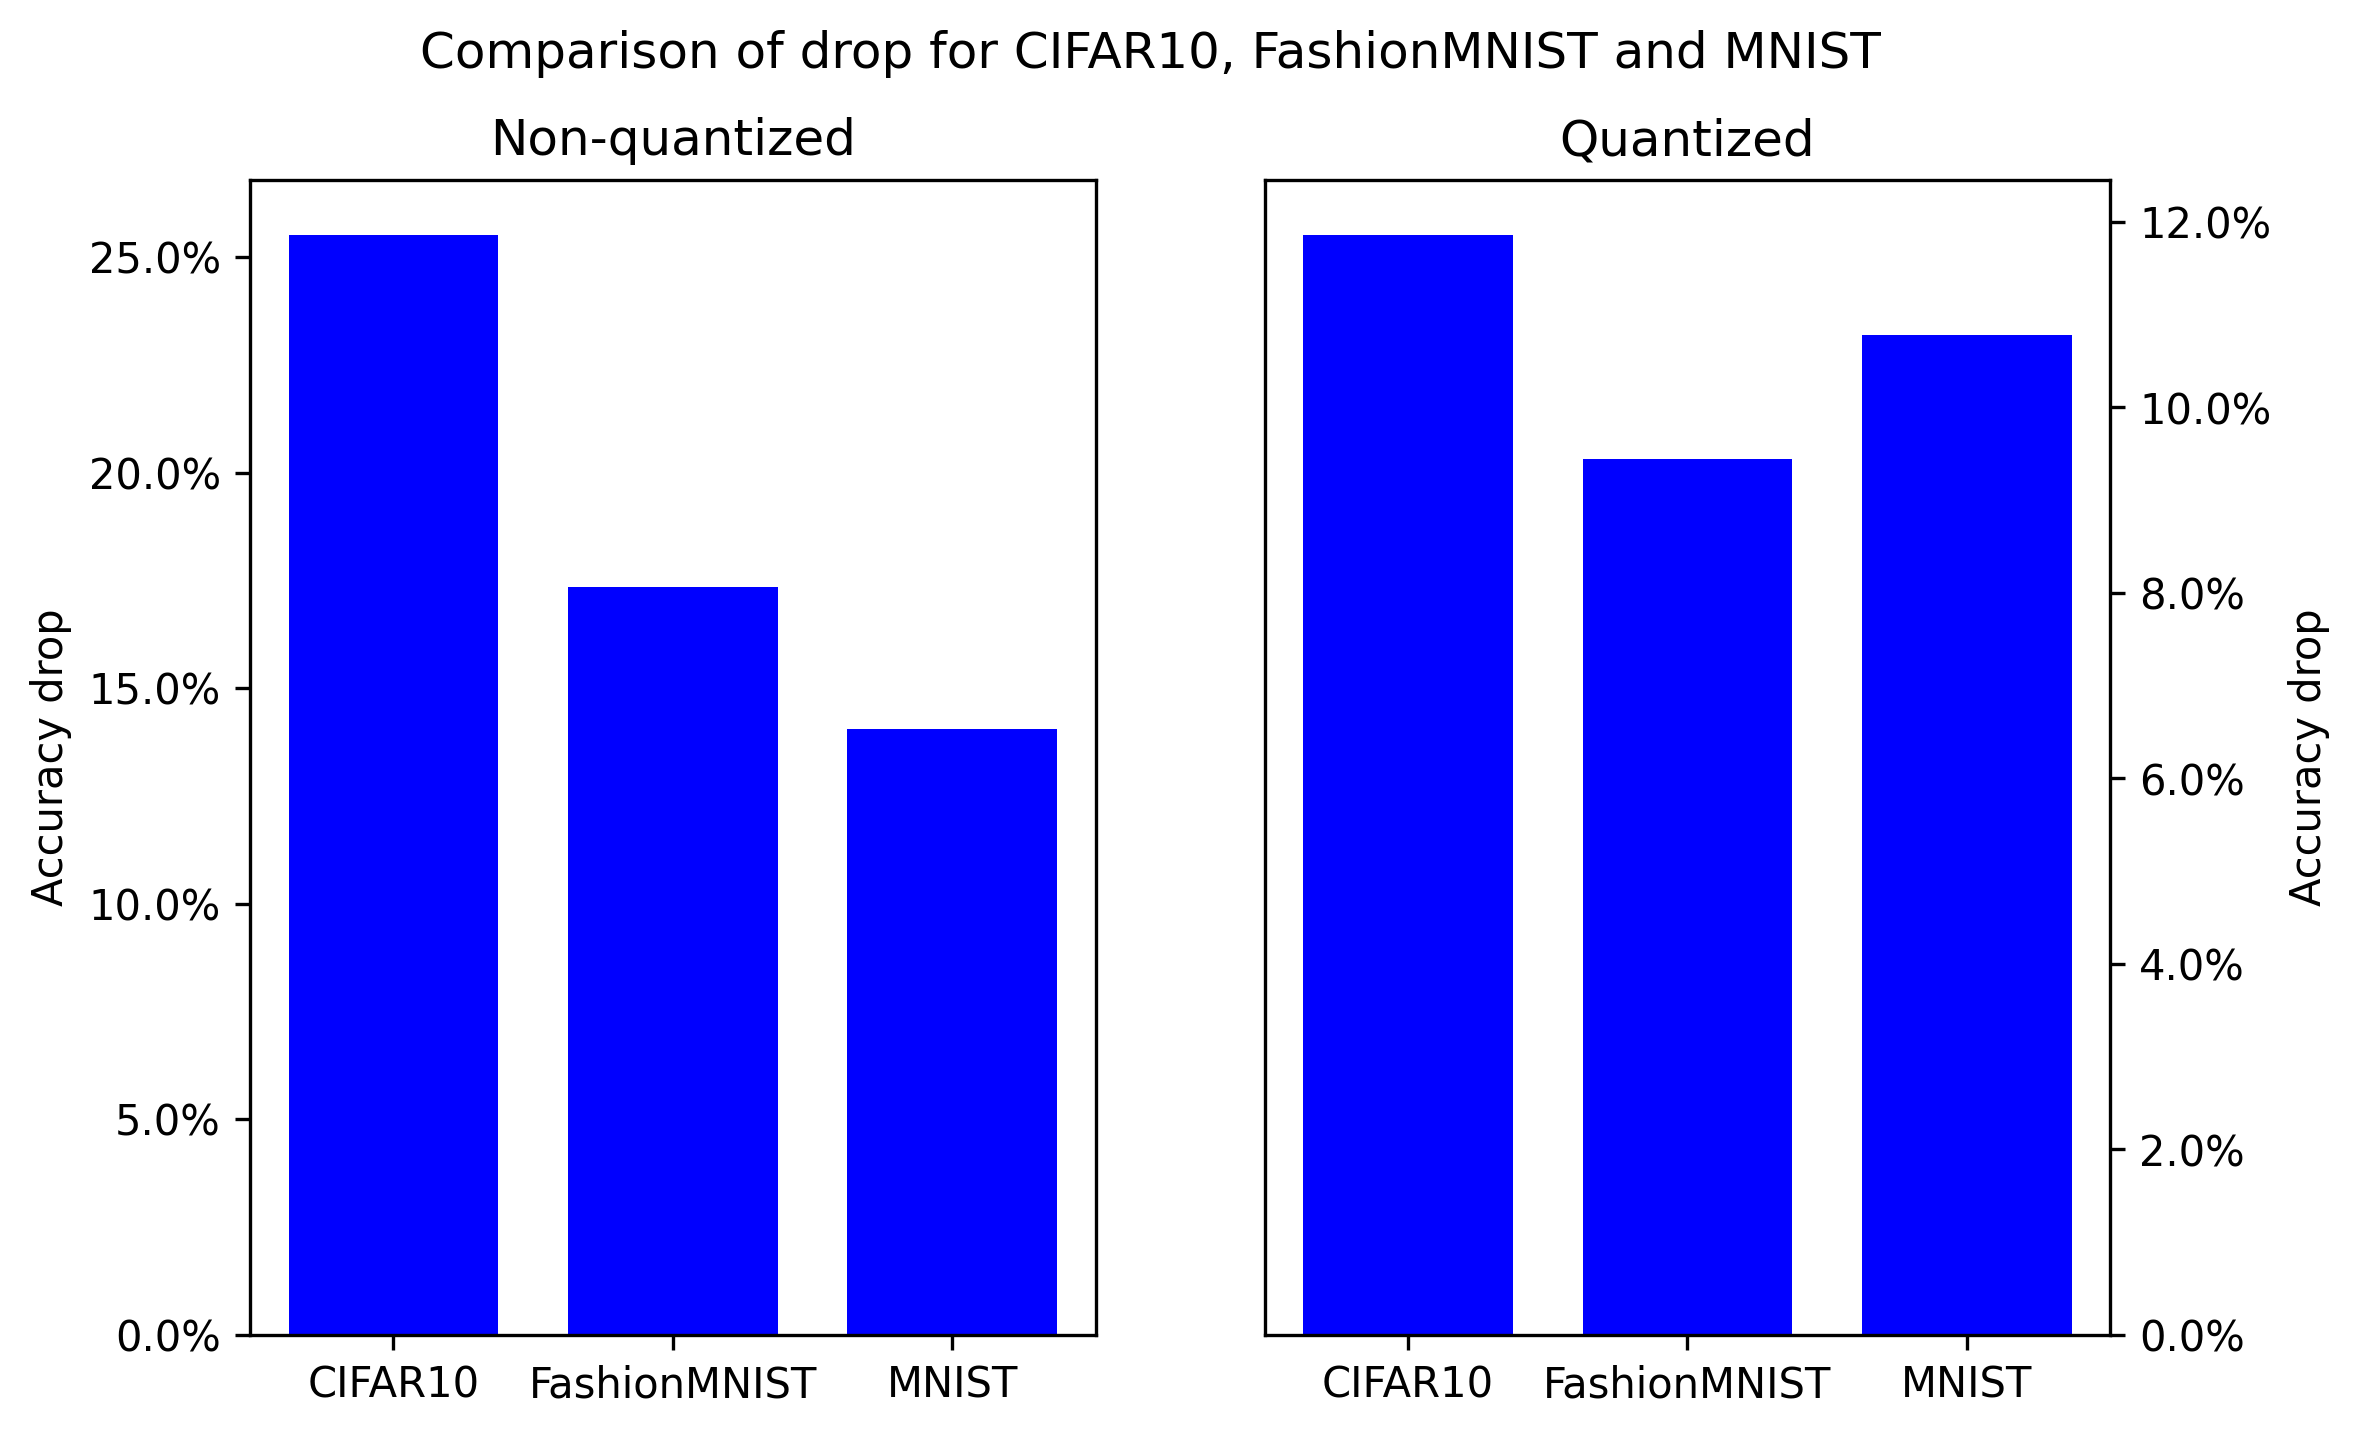
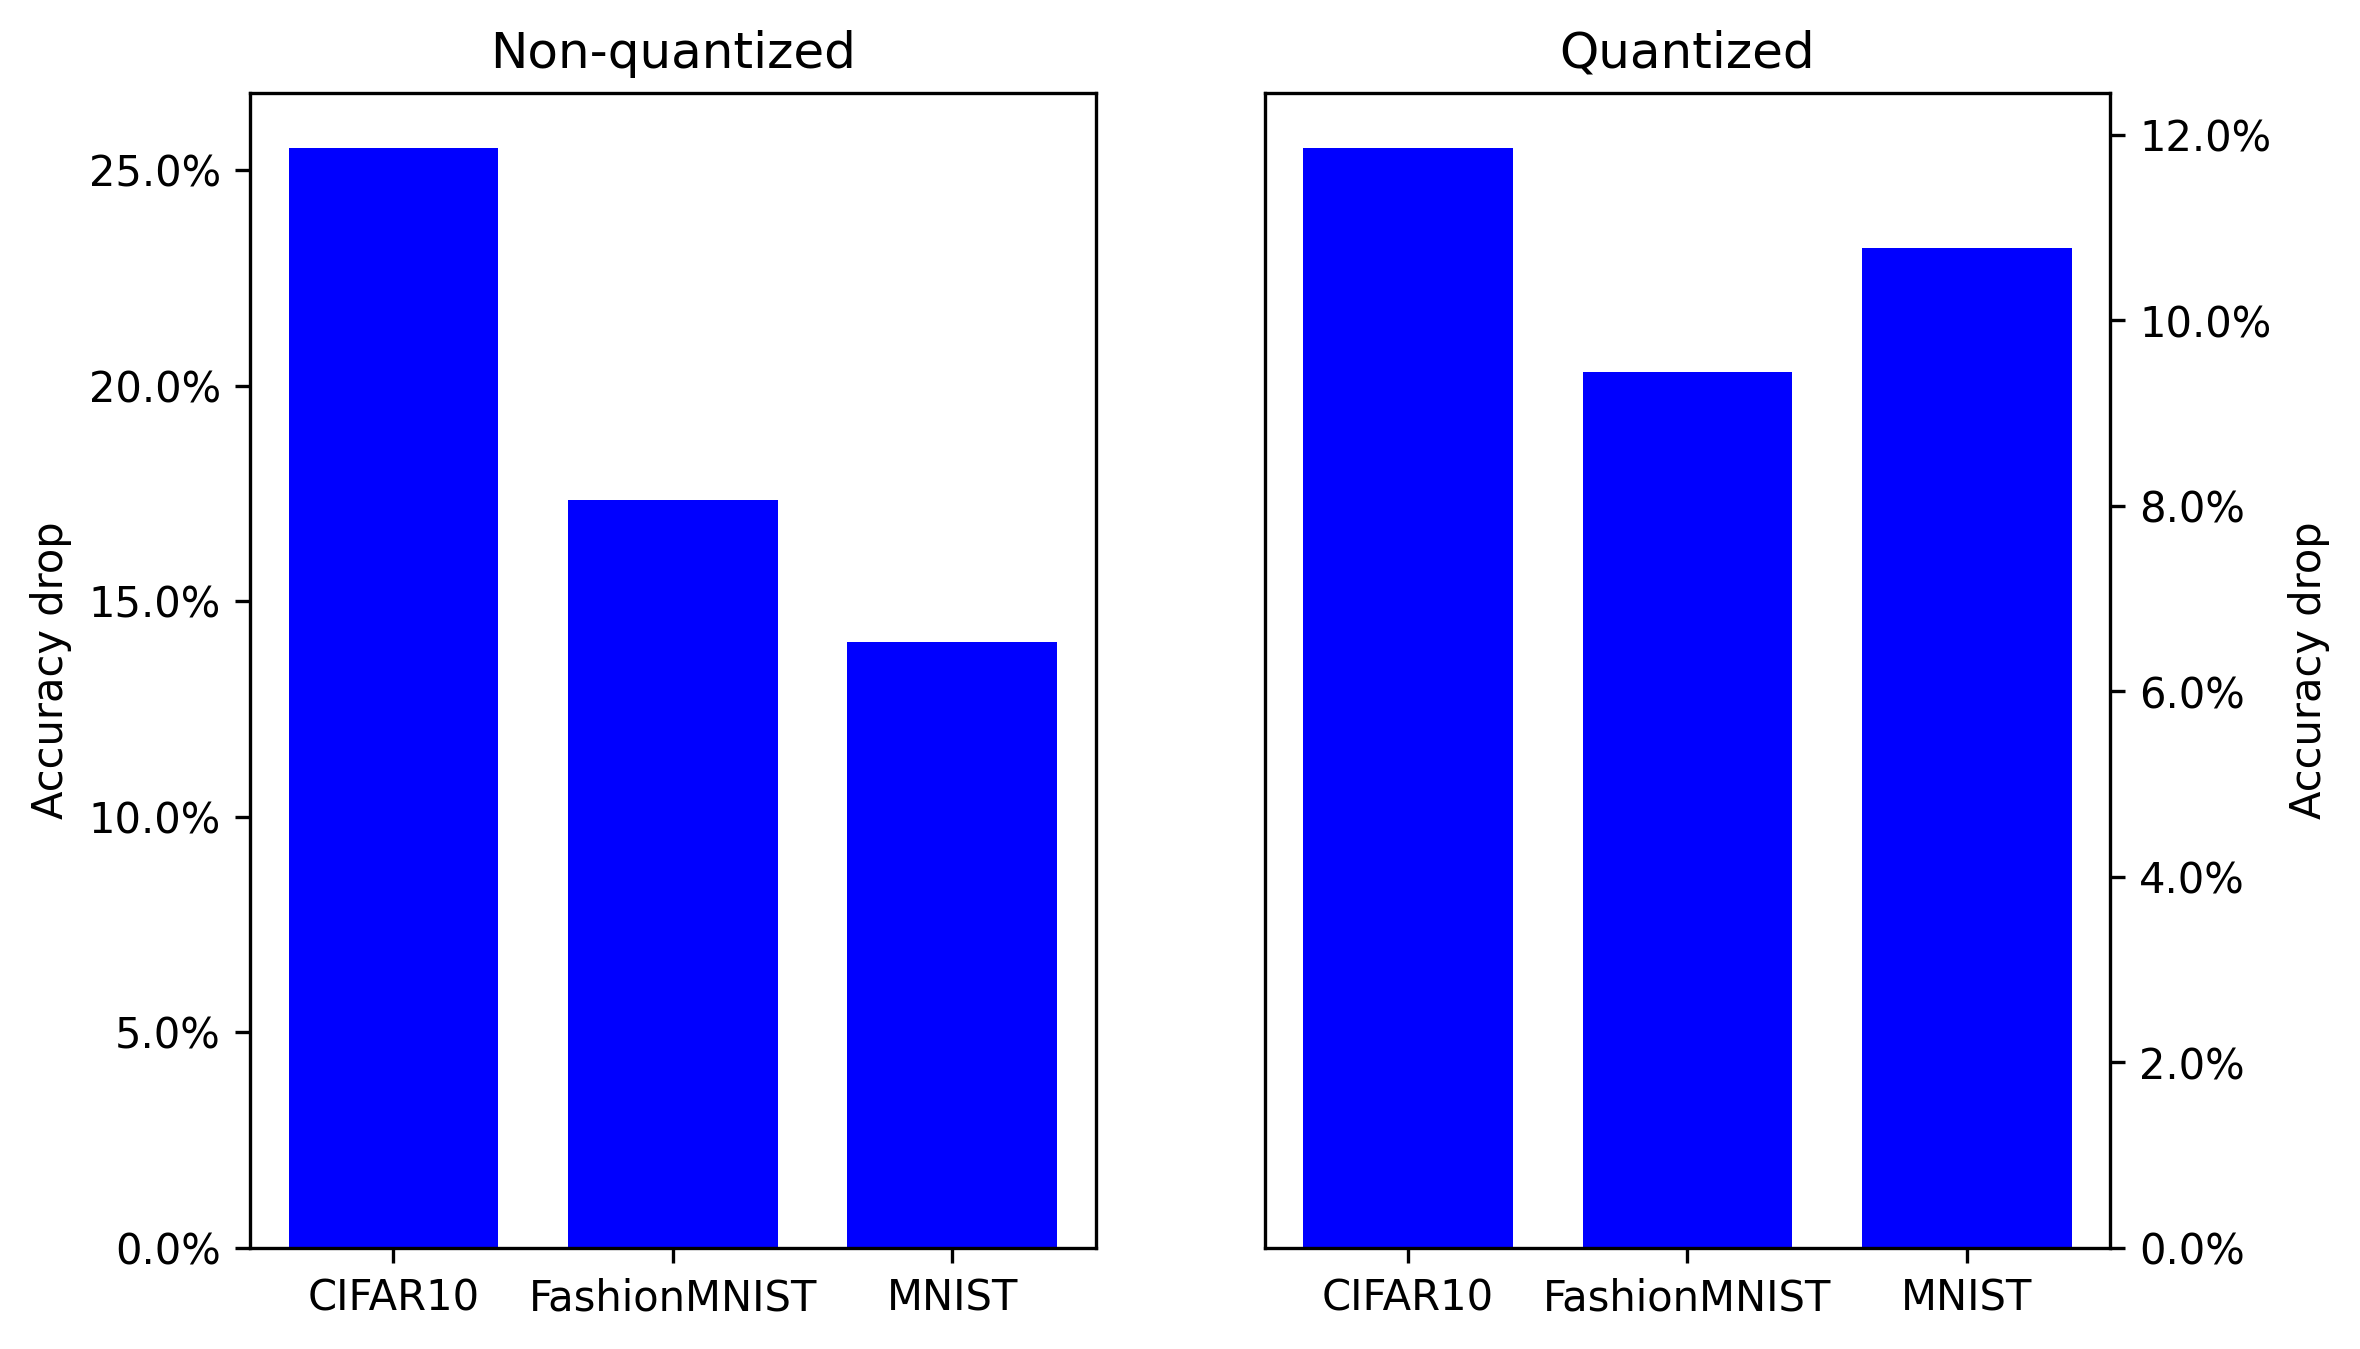
Graphs updated

diff --git a/generate_plots_hyperparameters.py b/generate_plots_hyperparameters.py
@@ -89,12 +89,13 @@ def generate_plot_patch(df, start_rows, cols, legends, x_label, x_ticks, plt_tit
     plt.xlabel(x_label, font=font)
     plt.xticks(x_ticks, font=font)
     plt.ylabel('Accuracy', font=font)
-    yticks = list(range(70, 101, 3))
+    plt.ylim((64, 101))
+    yticks = list(range(65, 101, 5))
     plt.yticks(yticks, labels=[str(num) + "%" for num in yticks], font=font)
     plt.grid(True, linewidth=0.5, color='gray', linestyle=':')
     plt.legend(fontsize=12)
 
-    plt.title(plt_title, font=font)
+    # plt.title(plt_title, font=font)
 
 
     # SAVE GRAPH IN PDF
@@ -120,12 +121,13 @@ def generate_plot_quant(df, start_rows, cols, legends, x_label, x_ticks, plt_tit
     tick_labels[-1] = 'inf'  # change the last tick label to 'inf'
     plt.xticks(x_ticks, tick_labels, font=font)
     plt.ylabel('Accuracy', font=font)
-    yticks = list(range(73, 101, 3))
+    plt.ylim((81, 101))
+    yticks = list(range(82, 101, 2))
     plt.yticks(yticks, labels=[str(num) + "%" for num in yticks], font=font)
     plt.grid(True, linewidth=0.5, color='gray', linestyle=':')
     plt.legend(fontsize=12, loc="lower right")
 
-    plt.title(plt_title, font=font)
+    # plt.title(plt_title, font=font)
 
     save_graph('quantization')
 
@@ -140,8 +142,9 @@ def generate_plot_size(df, start_rows, cols, legends, x_labels, x_ticks, plt_tit
     fig, ax0 = plt.subplots()
     ax0.set_xlabel(x_labels[0], font=font)
     ax0.set_xticks(x_ticks[0], font=font)
-    ax0.set_ylabel('Accuracy [%]', font=font)
-    yticks = list(range(60, 101, 4))
+    ax0.set_ylabel('Accuracy', font=font)
+    ax0.set_ylim((65, 101))
+    yticks = list(range(68, 101, 4))
     ax0.set_yticks(yticks, labels=[str(num) + "%" for num in yticks], font=font)
     ax0.grid(True, linewidth=0.5, color='gray', linestyle=':')
 
@@ -165,7 +168,7 @@ def generate_plot_size(df, start_rows, cols, legends, x_labels, x_ticks, plt_tit
     labs = [l.get_label() for l in lns]
     ax0.legend(lns, labs, loc="lower right")
 
-    plt.title(plt_title, font=font)
+    # plt.title(plt_title, font=font)
 
     save_graph('model_size')
 
@@ -179,14 +182,15 @@ def generate_plot_datasets(df, start_rows, legends, x_label, x_ticks, plt_title)
     for i, rows_bunch in enumerate(rows_bunches):
         plt.plot([0,1,2], rows_bunch['acc'], c=colors[i], label = legends[i], linewidth = 1, linestyle='-', marker='.')
 
-    plt.xlabel(x_label, font=font)
+    # plt.xlabel(x_label, font=font)
     tick_labels = ['MNIST', 'FashionMNIST', 'CIFAR10']
     plt.xticks(x_ticks, tick_labels, font=font)
     plt.ylabel('Accuracy', font=font)
-    yticks = list(range(35, 101, 5))
+    plt.ylim((28, 102))
+    yticks = list(range(30, 101, 10))
     plt.yticks(yticks, labels=[str(num) + "%" for num in yticks], font=font)
     plt.grid(True, linewidth=0.5, color='gray', linestyle=':')
-    plt.legend(fontsize=12)
+    plt.legend(fontsize=12, loc='lower left')
 
     plt.title(plt_title, font=font)
 
@@ -197,7 +201,7 @@ def generate_plot_datasets(df, start_rows, legends, x_label, x_ticks, plt_title)
 
 df = parse_csv()
 
-fig = plt.figure(figsize=(12, 10))
+# fig = plt.figure(figsize=(12, 10))
 
 plt = generate_plot_patch(df=df, 
                           start_rows=[7*1,7*2,7*3,7*4],
@@ -210,7 +214,7 @@ plt = generate_plot_patch(df=df,
 # plt.show()
 plt.clf()
 
-fig = plt.figure(figsize=(12, 10))
+# fig = plt.figure(figsize=(12, 10))
 
 plt = generate_plot_quant(df=df, 
                           start_rows=[7*0,7*5], 
@@ -223,20 +227,20 @@ plt = generate_plot_quant(df=df,
 # plt.show()
 plt.clf()
 
-fig = plt.figure(figsize=(12, 10))
+# fig = plt.figure(figsize=(12, 10))
 
 plt = generate_plot_size(df=df, 
                           start_rows=[7*6,7*7], 
                           cols=['size_ht','added_layers'],
                           legends=['Hidden state vector length', 'Number of layers added to the original network'],
-                          x_labels=['size_ht', 'added_layers'], 
+                          x_labels=['Hidden state vector length', 'Added layers'], 
                           x_ticks=[list(range(16,130,16)), list(range(0,3,1))], 
                           plt_title='Accuracy with differences in the network structure'
                           )
 # plt.show()
 plt.clf()
 
-fig = plt.figure(figsize=(12, 10))
+# fig = plt.figure(figsize=(12, 10))
 
 plt = generate_plot_datasets(df=df, 
                           start_rows=[7*7 +3*1,7*7 +3*2], 

diff --git a/generate_plots_BO.py b/generate_plots_BO.py
@@ -70,12 +70,33 @@ def generate_plot(df, start_rows, cols, legends, x_label, x_ticks, plt_title):
     plt.xlabel(x_label, font=font)
     plt.xticks(x_ticks, labels=[str(num) + "%" for num in x_ticks], font=font)
     plt.ylabel('Accuracy', font=font)
-    yticks = list(range(72, 97, 4))
+    plt.ylim((75.0, 93.0))
+    yticks = list(range(76, 93, 2))
     plt.yticks(yticks, labels=[str(num) + "%" for num in yticks], font=font)
     plt.grid(True, linewidth=0.5, color='gray', linestyle=':')
-    plt.legend(fontsize=12)
+    plt.legend(fontsize=12, loc='lower right')
 
-    plt.title(plt_title, font=font)
+    # plt.title(plt_title, font=font)
+
+    # Find the index of the x value you want to mark
+    x_value = 50
+    x_index = x_ticks.index(x_value)
+    # Get the corresponding y values for the two lines
+    y0_value = rows_subsets[0].reset_index(drop=True)['acc'][x_index]
+    y1_value = rows_subsets[1].reset_index(drop=True)['acc'][x_index]
+
+    # Plot the double-pointing arrow
+    arrow_length = abs(y0_value - y1_value)  # adjust arrow length as needed
+    arrow_style = '<->'  # double-pointing arrow style
+    arrow_color = 'black'
+    arrow_text = '{:.1f}'.format(arrow_length) + '%' # label for arrow, showing distance
+
+    plt.annotate("", xy=(x_value, y0_value + arrow_length*0.1), xytext=((x_value), y1_value - arrow_length*0.1),
+             arrowprops=dict(arrowstyle=arrow_style, color=arrow_color, shrinkA=0, shrinkB=0, lw=1),
+             fontsize=12)
+    
+    plt.annotate(arrow_text, xy=(x_value, (y0_value + y1_value) / 2), xytext=(10, 0),
+             textcoords='offset points', fontsize=12)
 
     save_graph('bo')
 
@@ -85,7 +106,7 @@ def generate_plot(df, start_rows, cols, legends, x_label, x_ticks, plt_title):
 
 df = parse_csv()
 
-fig = plt.figure(figsize=(12, 10))
+# fig = plt.figure(figsize=(12, 10))
 
 plt = generate_plot(df=df, 
                           start_rows=[6*0,6*1],

diff --git a/generate_plots_noise.py b/generate_plots_noise.py
@@ -61,7 +61,7 @@ def parse_csv():
 
 def generate_plot(df, start_rows, cols, legends, x_label, x_ticks, plt_title):
 
-    rows_subsets = [df.iloc[start_row : -1] for start_row in start_rows]
+    rows_subsets = [df.iloc[start_row : start_row+23] for start_row in start_rows]
 
     colors = ['r', 'b', 'g', 'y']
 
@@ -71,14 +71,15 @@ def generate_plot(df, start_rows, cols, legends, x_label, x_ticks, plt_title):
 
     plt.xlabel(x_label, font=font)
     plt.xticks(x_ticks, font=font)
+    plt.xlim
     plt.ylabel('Accuracy', font=font)
-    plt.ylim(65.0, 100.0)
-    yticks = list(range(65, 100, 5))
+    plt.ylim(65.0, 91.0)
+    yticks = list(range(66, 91, 3))
     plt.yticks(yticks, labels=[str(num) + "%" for num in yticks], font=font)
     plt.grid(True, linewidth=0.5, color='gray', linestyle=':')
     plt.legend(fontsize=12)
 
-    plt.title(plt_title, font=font_title)
+    # plt.title(plt_title, font=font_title)
 
     save_graph('noises')
 
@@ -87,13 +88,13 @@ def generate_plot(df, start_rows, cols, legends, x_label, x_ticks, plt_title):
 
 df = parse_csv()
 
-fig = plt.figure(figsize=(12, 10))
+# fig = plt.figure(figsize=(12, 10))
 
 plt = generate_plot(df=df, 
                           start_rows=[0, 0],
                           cols=['acc_50_bo', 'acc_100_bo'],
                           legends=['50% of trained table', '100% of trained table'],
-                          x_label='Standard deviation of Gaussian noise',
+                          x_label='Standard deviation',
                           x_ticks=[0.0,0.5,1.0,1.5,2.0,2.5,3.0,3.5,4.0,4.5,5.0], 
                           plt_title='Accuracy with Gaussian noise applied to distance metric'
                           )

diff --git a/generate_plots_mem_based_other_datasets.py b/generate_plots_mem_based_other_datasets.py
@@ -30,7 +30,7 @@ axs[1].yaxis.set_label_position("right")
 axs[1].yaxis.set_ticks_position('right')
 
 # Add a common title for the figure
-fig.suptitle('Comparison of drop for CIFAR10, FashionMNIST and MNIST')
+# fig.suptitle('Comparison of drop for CIFAR10, FashionMNIST and MNIST')
 
 dir_name = 'graphs'
 graph_name = 'histogram'
